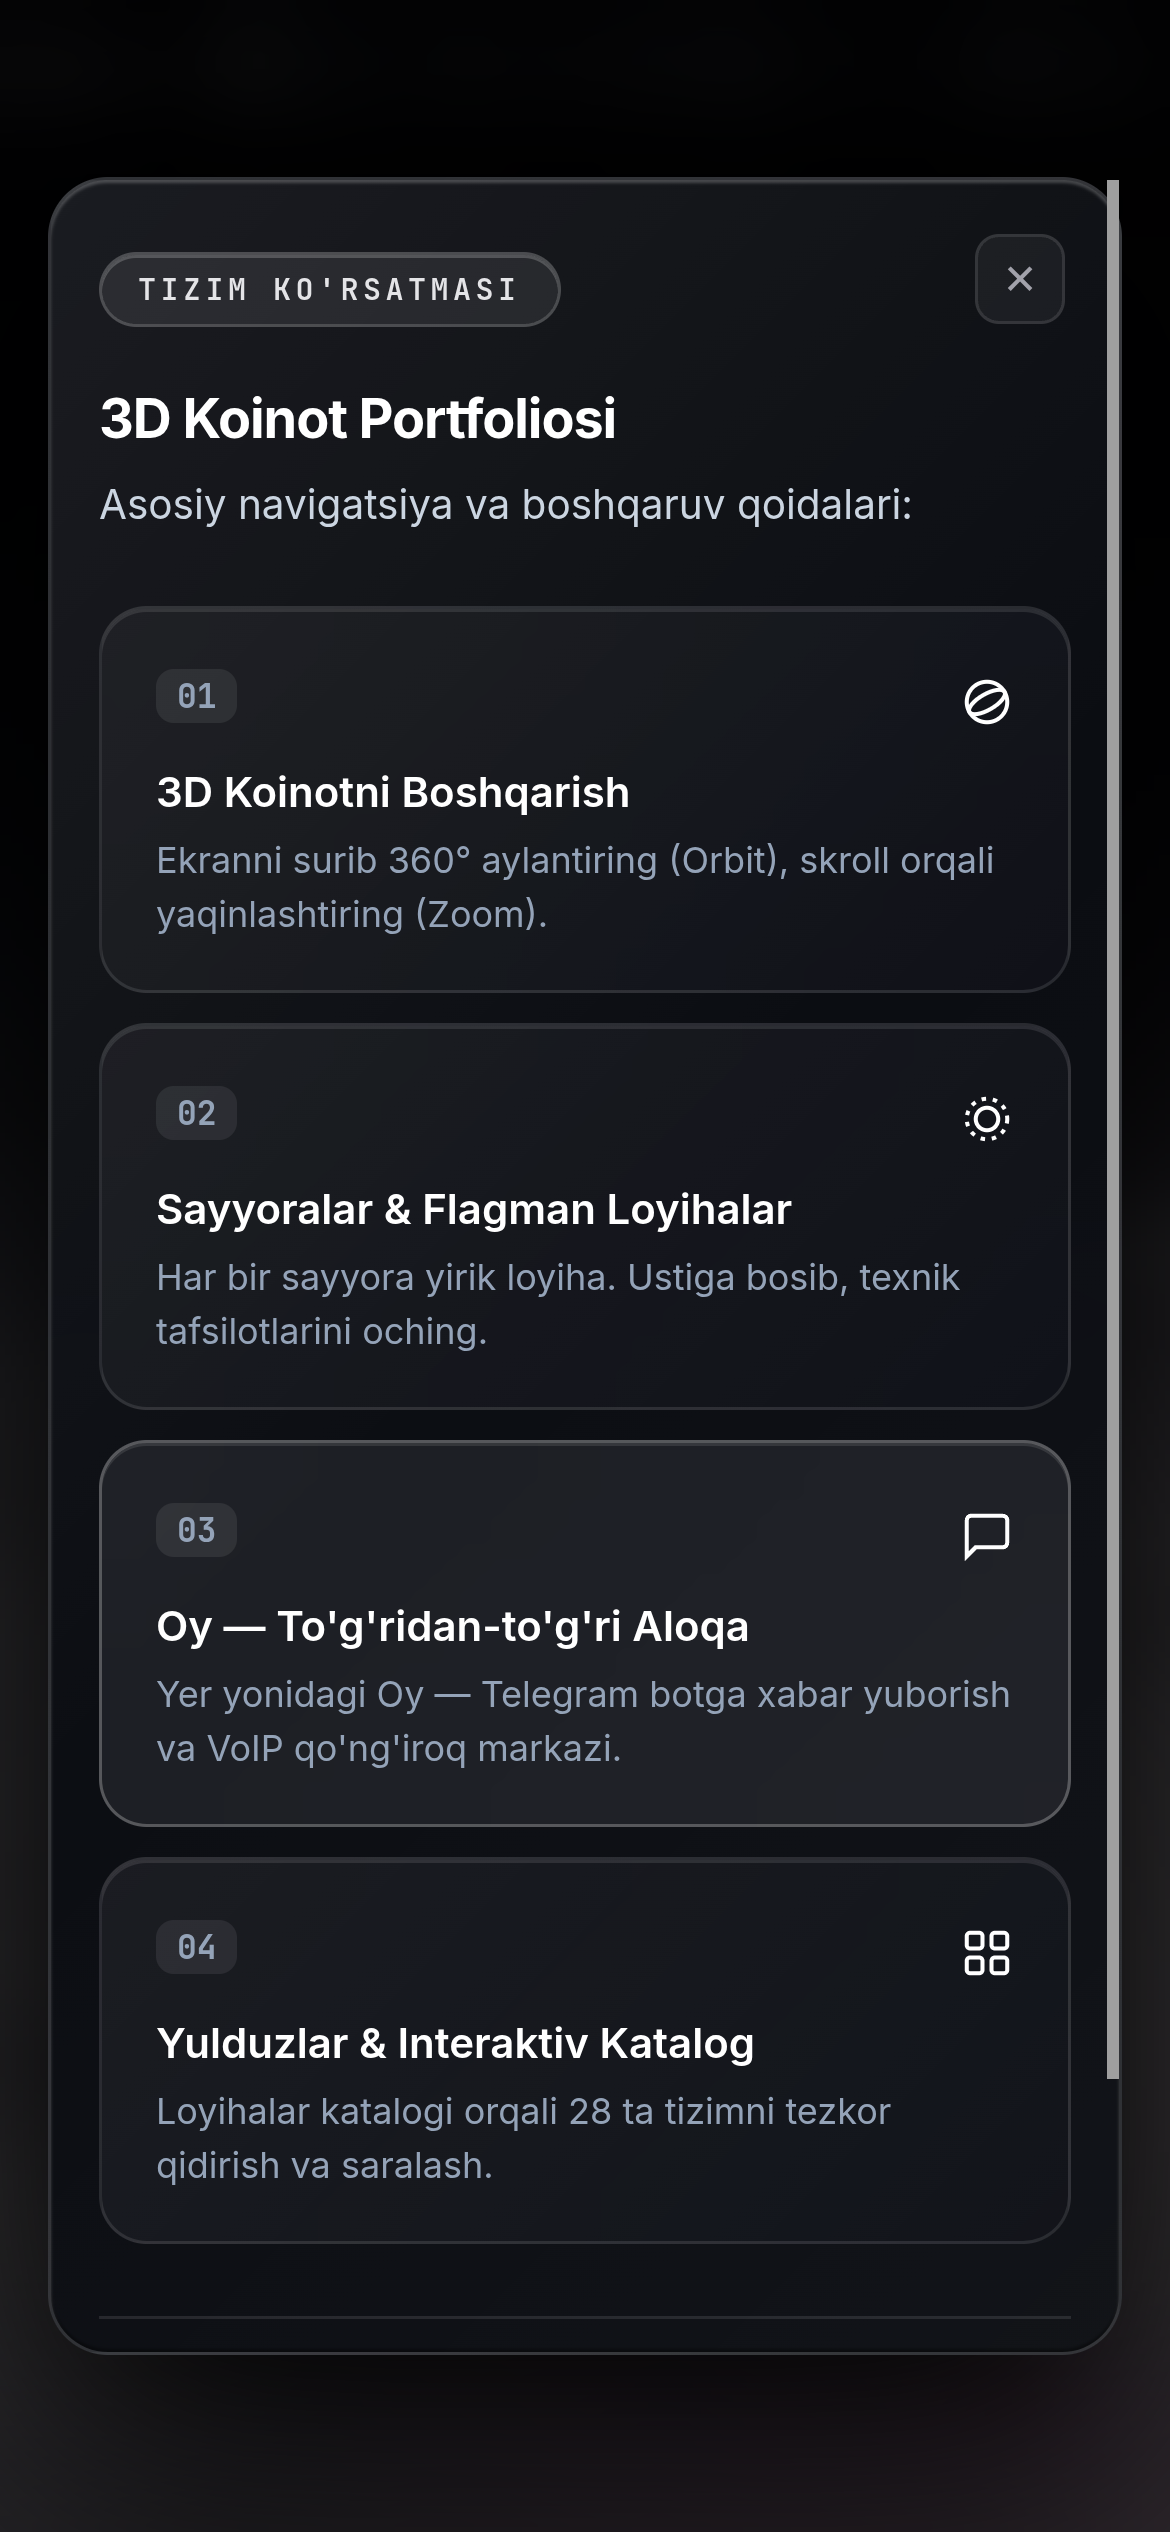
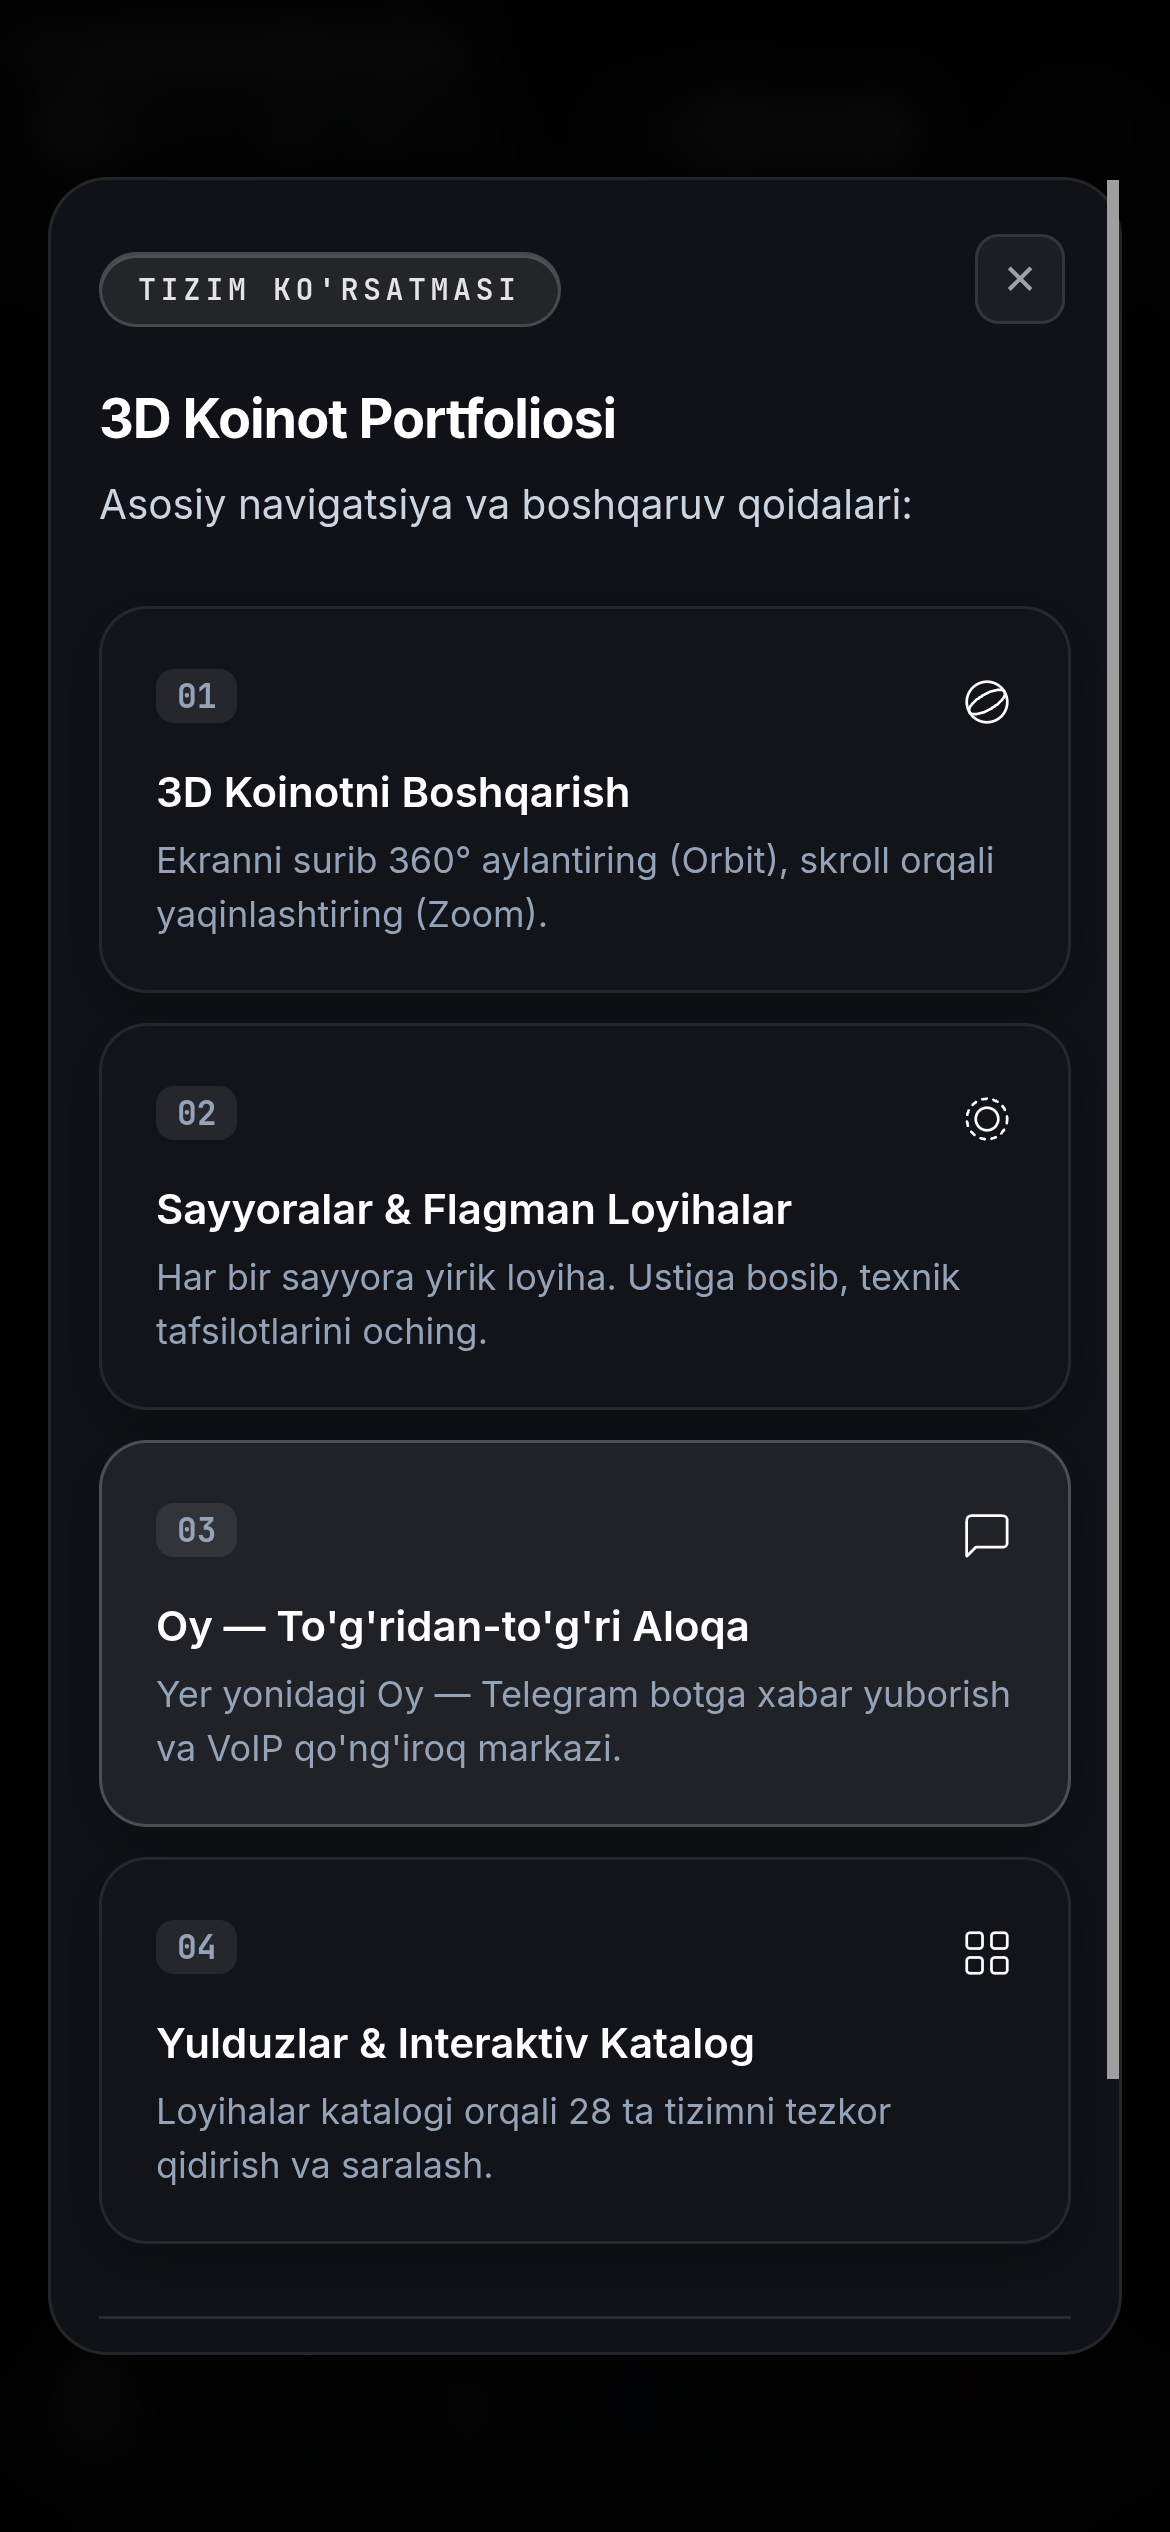
perf & polish: preserve half-res bloom on resize, compositor-only pulse animations, and titanium minimal HUD vectors

diff --git a/style.css b/style.css
@@ -67,8 +67,8 @@ body, html {
 }
 
 @keyframes pulseGlow {
-    0%, 100% { transform: scale(1); opacity: 0.8; }
-    50% { transform: scale(1.25); opacity: 1; filter: drop-shadow(0 0 6px rgba(255, 255, 255, 0.8)); }
+    0%, 100% { transform: scale(0.92); opacity: 0.7; }
+    50% { transform: scale(1.15); opacity: 1; }
 }
 
 .brand-title {
@@ -501,8 +501,8 @@ body, html {
 }
 
 @keyframes telemetryPulse {
-    0%, 100% { transform: scale(1); opacity: 0.6; }
-    50% { transform: scale(1.25); opacity: 1; box-shadow: 0 0 8px rgba(255, 255, 255, 0.9); }
+    0%, 100% { transform: scale(0.9); opacity: 0.55; }
+    50% { transform: scale(1.2); opacity: 1; }
 }
 
 .telemetry-buttons-track {
@@ -1000,8 +1000,8 @@ body, html {
 }
 
 @keyframes tourDotPulse {
-    0%, 100% { transform: scale(1); opacity: 0.7; }
-    50% { transform: scale(1.3); opacity: 1; box-shadow: 0 0 14px rgba(255, 255, 255, 0.95); }
+    0%, 100% { transform: scale(0.9); opacity: 0.6; }
+    50% { transform: scale(1.2); opacity: 1; }
 }
 
 .tour-badge {
@@ -1218,8 +1218,8 @@ body, html {
     width: 7px;
     height: 7px;
     border-radius: 50%;
-    background: #ffb300;
-    box-shadow: 0 0 8px #ffb300;
+    background: #fbbf24;
+    box-shadow: 0 0 6px rgba(251, 191, 36, 0.4);
     transition: all 0.3s ease;
 }
 
@@ -1230,8 +1230,8 @@ body, html {
 }
 
 .gesture-live-dot.status-error {
-    background: #ff3366;
-    box-shadow: 0 0 8px #ff3366;
+    background: #f87171;
+    box-shadow: 0 0 6px rgba(248, 113, 113, 0.4);
 }
 
 @keyframes gesture-pulse {
@@ -1244,7 +1244,7 @@ body, html {
     font-size: 8.5px;
     font-weight: 700;
     letter-spacing: 0.6px;
-    color: #e0f7fa;
+    color: #f4f4f5;
 }
 
 .gesture-close-btn {
@@ -1272,10 +1272,10 @@ body, html {
     position: relative;
     width: 100%;
     height: 125px;
-    background: rgba(2, 6, 14, 0.92);
+    background: rgba(14, 16, 22, 0.95);
     border-radius: 12px;
     overflow: hidden;
-    border: 1px solid rgba(0, 240, 255, 0.18);
+    border: 1px solid rgba(255, 255, 255, 0.08);
     display: flex;
     align-items: center;
     justify-content: center;
@@ -1291,7 +1291,7 @@ body, html {
 .gesture-overlay-scanline {
     position: absolute;
     inset: 0;
-    background: linear-gradient(to bottom, transparent 50%, rgba(0, 240, 255, 0.04) 51%);
+    background: linear-gradient(to bottom, transparent 50%, rgba(255, 255, 255, 0.02) 51%);
     background-size: 100% 4px;
     pointer-events: none;
 }
@@ -1351,9 +1351,9 @@ body, html {
 .reticle-ring {
     position: absolute;
     inset: 4px;
-    border: 1.5px solid rgba(0, 240, 255, 0.7);
+    border: 1.2px solid rgba(255, 255, 255, 0.45);
     border-radius: 50%;
-    box-shadow: 0 0 10px rgba(0, 240, 255, 0.4);
+    box-shadow: 0 0 6px rgba(255, 255, 255, 0.2);
     transition: transform 0.15s ease, border-color 0.15s ease;
 }
 
@@ -1421,8 +1421,8 @@ body, html {
 }
 
 .gesture-reticle.reticle-pinching .reticle-ring {
-    border-color: #ffd700;
-    box-shadow: 0 0 20px #ffd700;
+    border-color: #ffffff;
+    box-shadow: 0 0 8px rgba(255, 255, 255, 0.6);
     transform: scale(0.68);
 }
 

diff --git a/main.js b/main.js
@@ -5380,6 +5380,7 @@ window.addEventListener('resize', () => {
     renderer.setPixelRatio(Math.min(window.devicePixelRatio, curMaxDPR));
     renderer.setSize(window.innerWidth, window.innerHeight);
     composer.setSize(window.innerWidth, window.innerHeight);
+    bloomPass.setSize(Math.floor(window.innerWidth * 0.5), Math.floor(window.innerHeight * 0.5));
 });
 
 // Cinematic Initial Dive
@@ -5489,9 +5490,9 @@ function drawGestureCanvas(lm, gestureName) {
         ctx.fillStyle = 'rgba(2, 8, 20, 0.52)';
         ctx.fillRect(0, 0, w, h);
     } else {
-        ctx.fillStyle = '#050a14';
+        ctx.fillStyle = '#090a10';
         ctx.fillRect(0, 0, w, h);
-        ctx.strokeStyle = 'rgba(0, 240, 255, 0.12)';
+        ctx.strokeStyle = 'rgba(255, 255, 255, 0.05)';
         ctx.lineWidth = 1;
         for (let x = 0; x < w; x += 18) {
             ctx.beginPath();
@@ -5518,16 +5519,16 @@ function drawGestureCanvas(lm, gestureName) {
         [5, 9], [9, 13], [13, 17]
     ];
 
-    let strokeColor = '#00f0ff';
-    if (gestureName === 'pinch') strokeColor = '#ffd700';
-    else if (gestureName === 'fist') strokeColor = '#ff6b4a';
-    else if (gestureName === 'pointing') strokeColor = '#00ffaa';
+    let strokeColor = 'rgba(255, 255, 255, 0.4)';
+    if (gestureName === 'pinch') strokeColor = '#f4f4f5';
+    else if (gestureName === 'fist') strokeColor = '#fca5a5';
+    else if (gestureName === 'pointing') strokeColor = '#e4e4e7';
 
     ctx.save();
-    ctx.lineWidth = 2.2;
+    ctx.lineWidth = 1.2;
     ctx.strokeStyle = strokeColor;
-    ctx.shadowColor = strokeColor;
-    ctx.shadowBlur = 6;
+    ctx.shadowColor = 'rgba(255, 255, 255, 0.2)';
+    ctx.shadowBlur = 2;
 
     for (const [i, j] of CONNECTIONS) {
         const p1 = lm[i];
@@ -5549,11 +5550,11 @@ function drawGestureCanvas(lm, gestureName) {
 
         ctx.beginPath();
         if (isTip) {
-            ctx.fillStyle = (i === 8 && (gestureName === 'pointing' || gestureName === 'pinch')) ? '#00ffaa' : '#ffffff';
-            ctx.arc(px, py, 3.5, 0, Math.PI * 2);
+            ctx.fillStyle = (i === 8 && (gestureName === 'pointing' || gestureName === 'pinch')) ? '#ffffff' : 'rgba(255, 255, 255, 0.85)';
+            ctx.arc(px, py, 2.0, 0, Math.PI * 2);
         } else {
             ctx.fillStyle = strokeColor;
-            ctx.arc(px, py, 2.2, 0, Math.PI * 2);
+            ctx.arc(px, py, 1.4, 0, Math.PI * 2);
         }
         ctx.fill();
     }

diff --git a/index.html b/index.html
@@ -88,10 +88,10 @@
             }
         }
     </script>
-    <script src="gsap.min.js"></script>
+    <script defer src="gsap.min.js"></script>
     <!-- MediaPipe Hands & Camera Utils for Real-time AI Vision Gesture Control (Pinned Stable Versions) -->
-    <script src="https://cdn.jsdelivr.net/npm/@mediapipe/camera_utils@0.3.1675466862/camera_utils.js" crossorigin="anonymous"></script>
-    <script src="https://cdn.jsdelivr.net/npm/@mediapipe/hands@0.4.1675469240/hands.js" crossorigin="anonymous"></script>
+    <script defer src="https://cdn.jsdelivr.net/npm/@mediapipe/camera_utils@0.3.1675466862/camera_utils.js" crossorigin="anonymous"></script>
+    <script defer src="https://cdn.jsdelivr.net/npm/@mediapipe/hands@0.4.1675469240/hands.js" crossorigin="anonymous"></script>
 </head>
 <body>
     <!-- Futuristic Sci-Fi Preloader Screen -->
